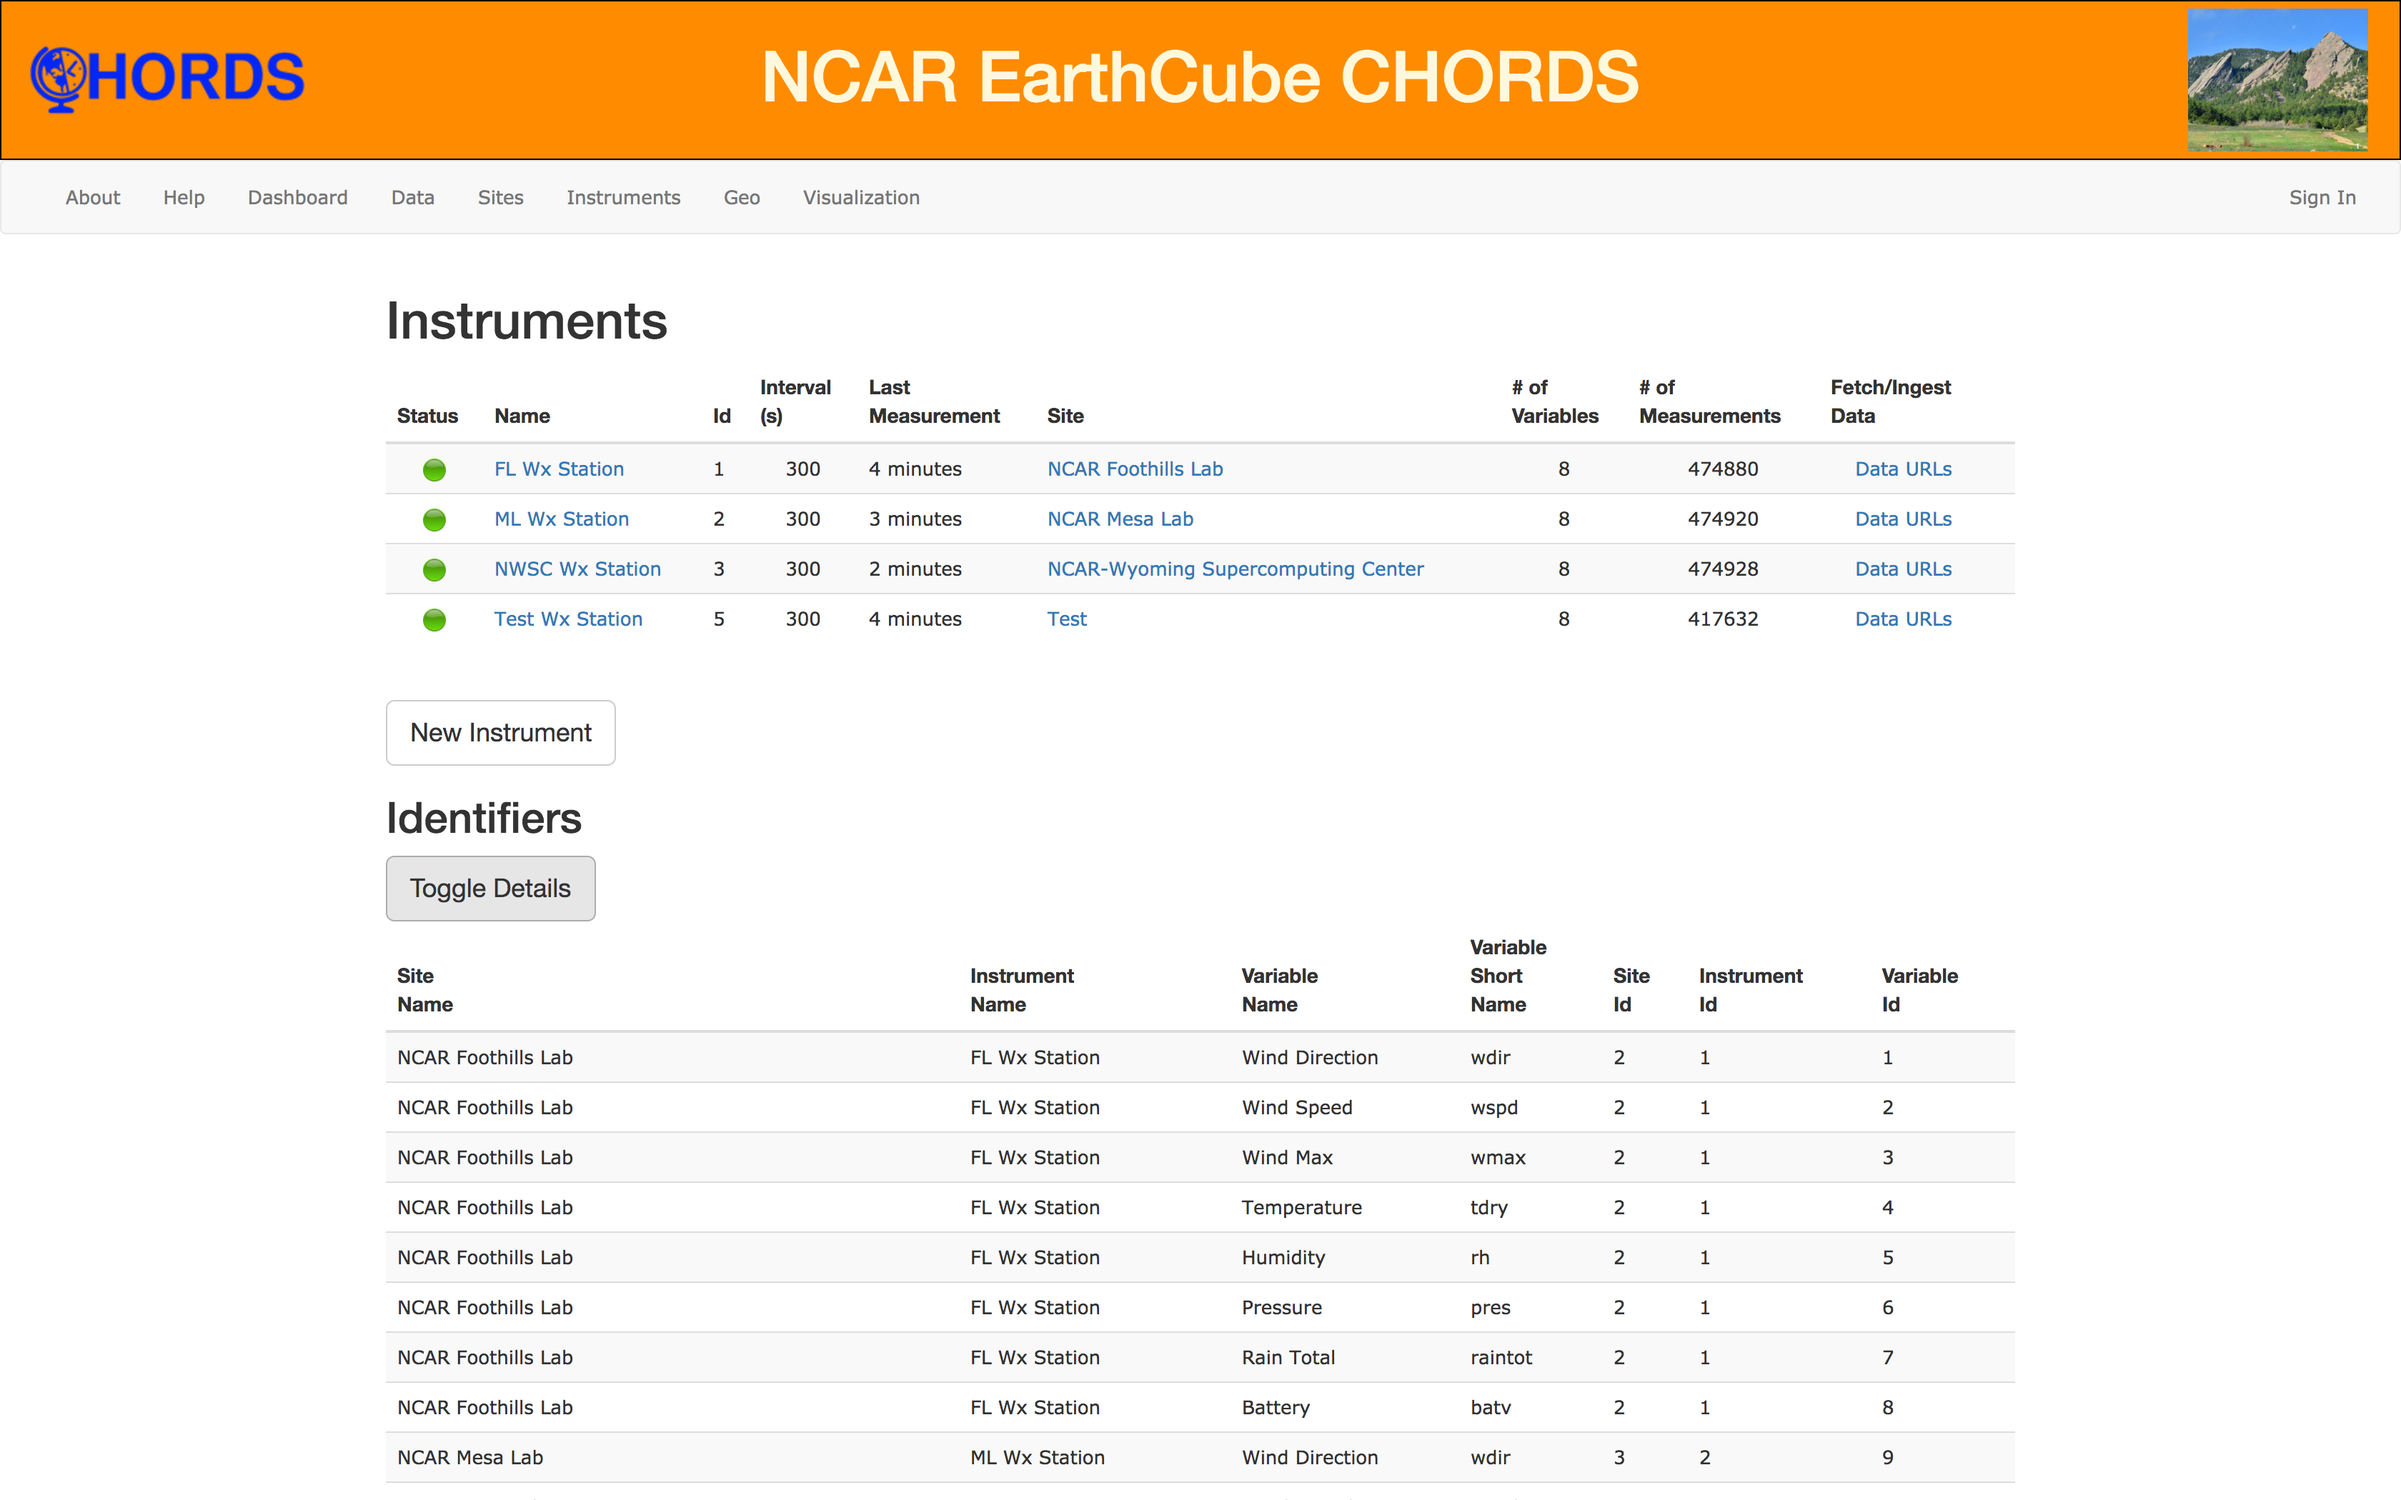
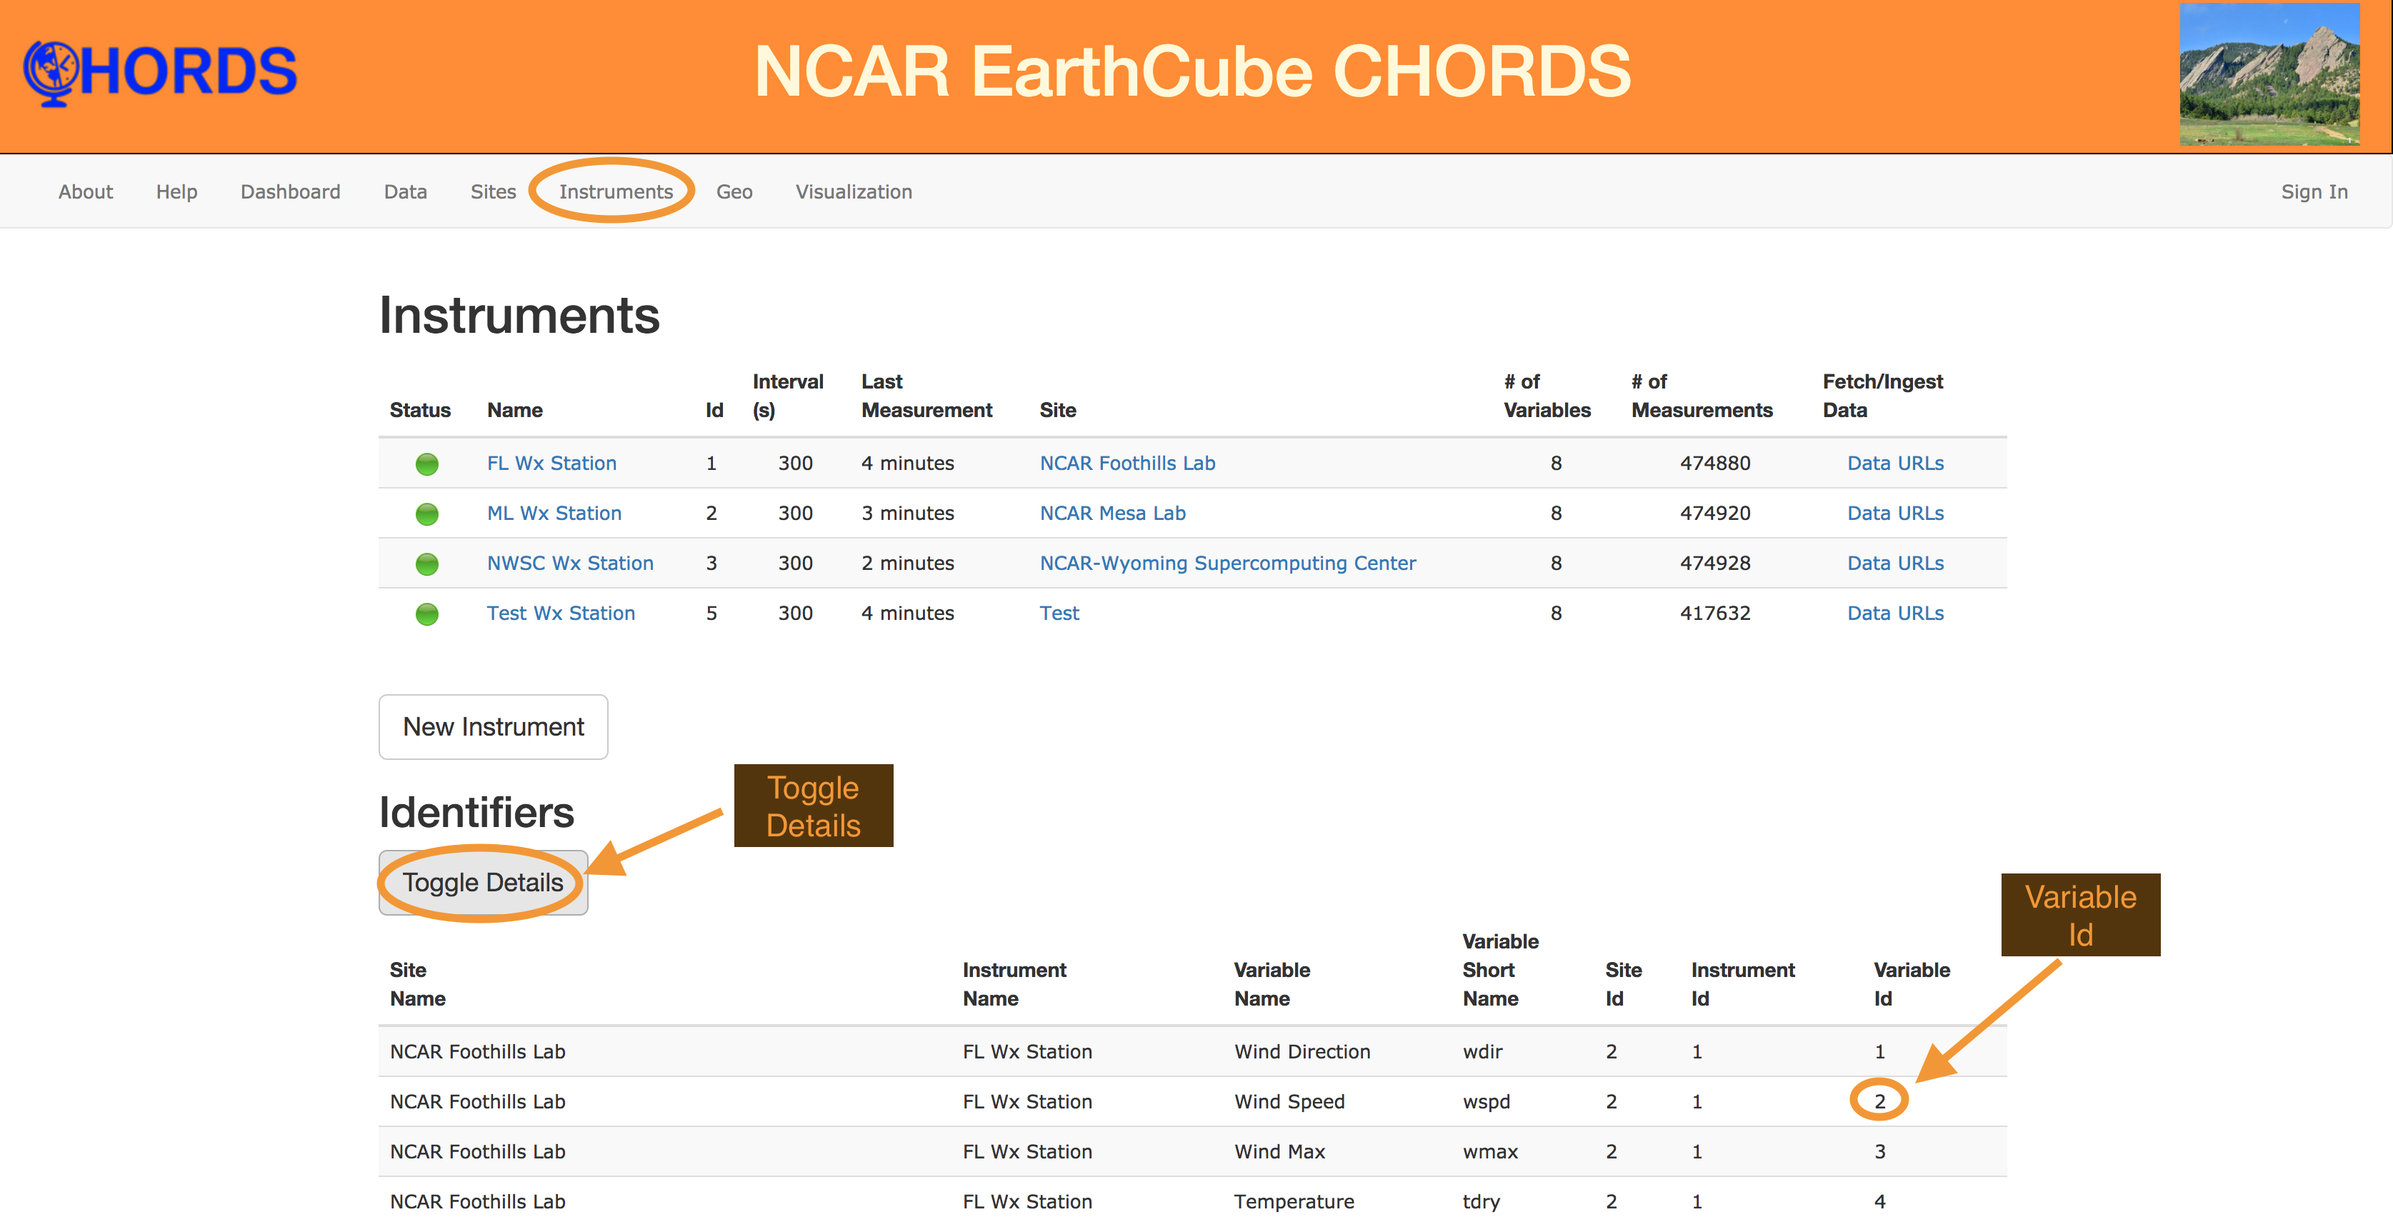
Add identifiers page.

diff --git a/concepts.md b/concepts.md
@@ -242,6 +242,9 @@ title: Concepts
         Use the Display tab to change the appearance:
         <img class="img-responsive" src="images/grafsetup_100.png" alt="Dashboard">
         <br>
+        The variable identifiers are obtained from the CHORDS Instruments page:
+        <img class="img-responsive" src="images/Identifiers.png" alt="Dashboard">
+        <br>
         Use the Metrics tab to select a variable from database:
         <img class="img-responsive" src="images/grafsetup_095.png" alt="Dashboard">
         </li>
